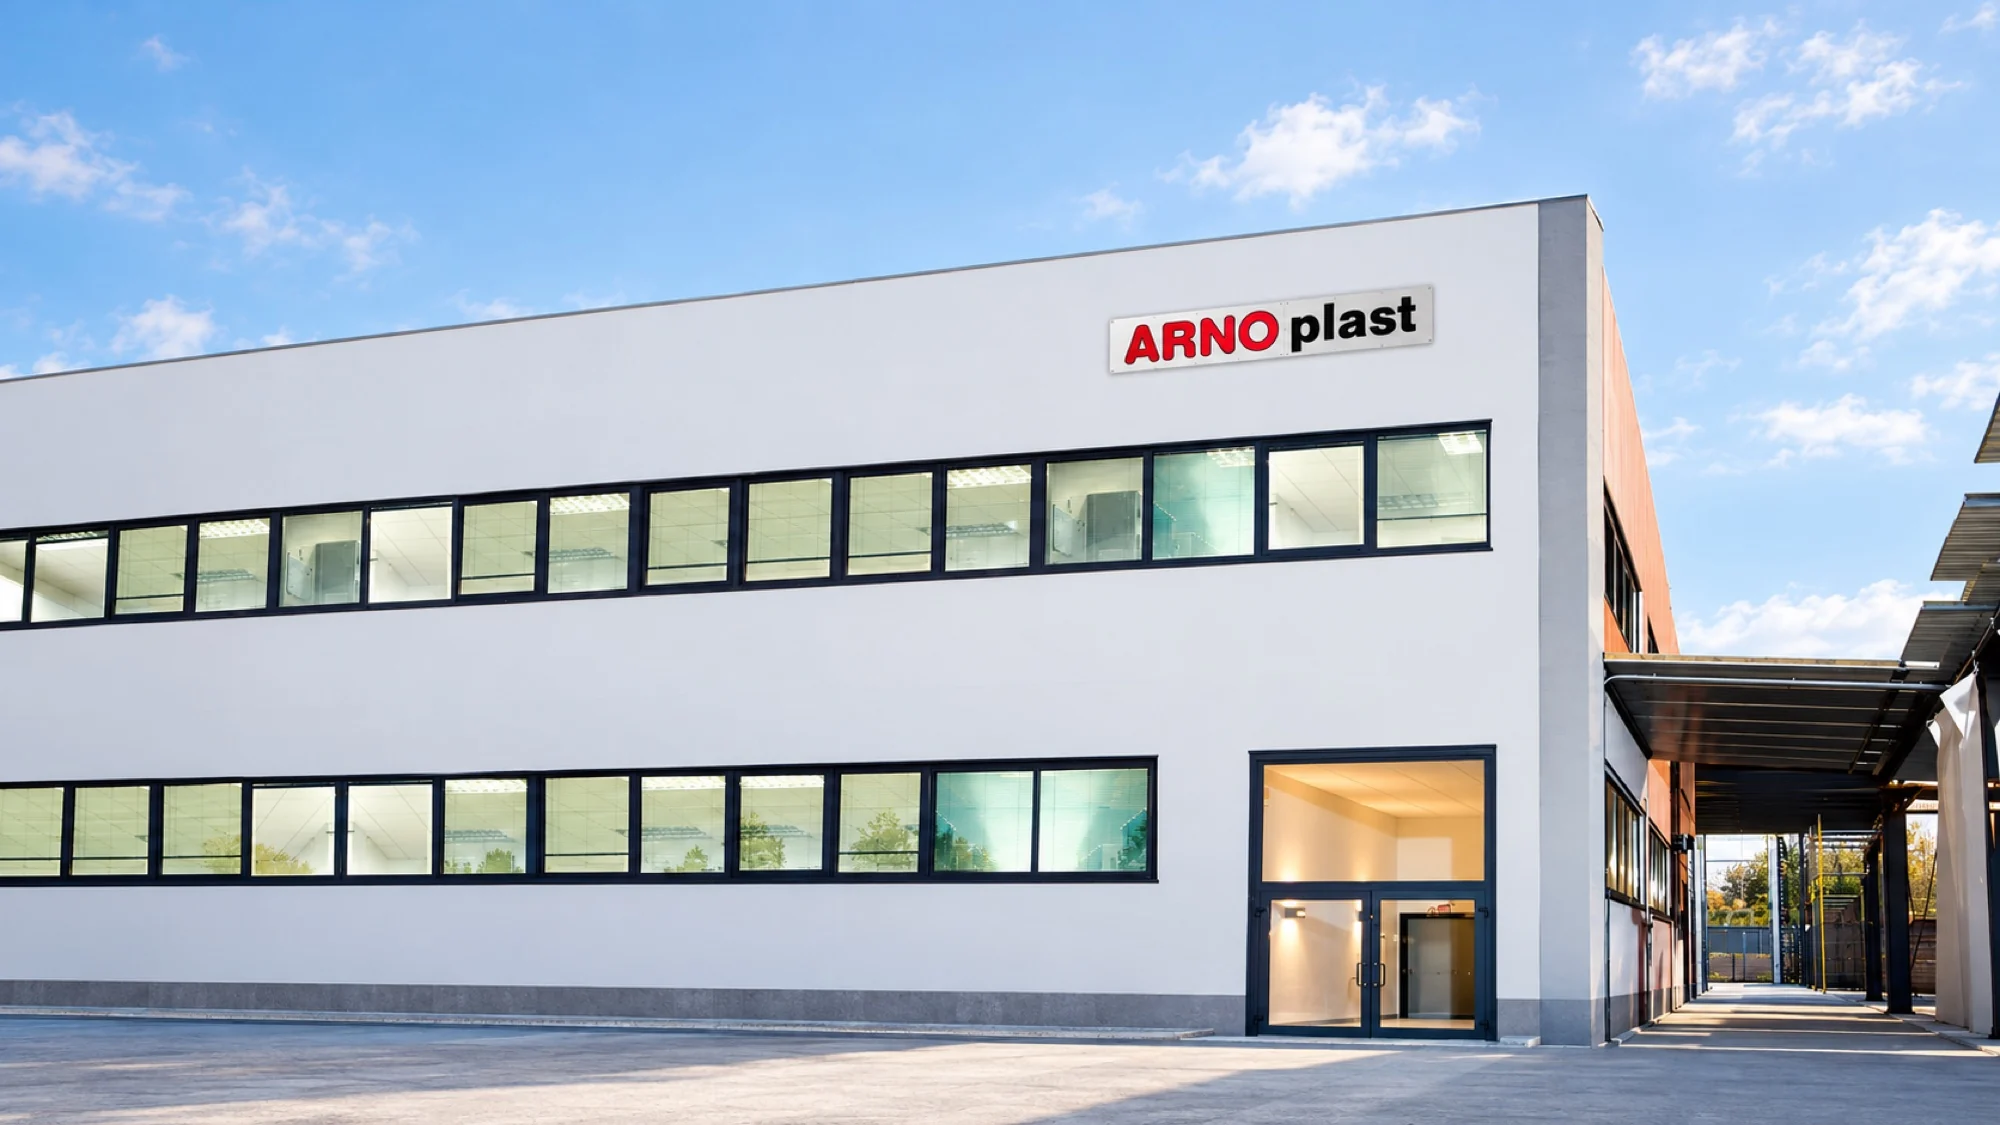
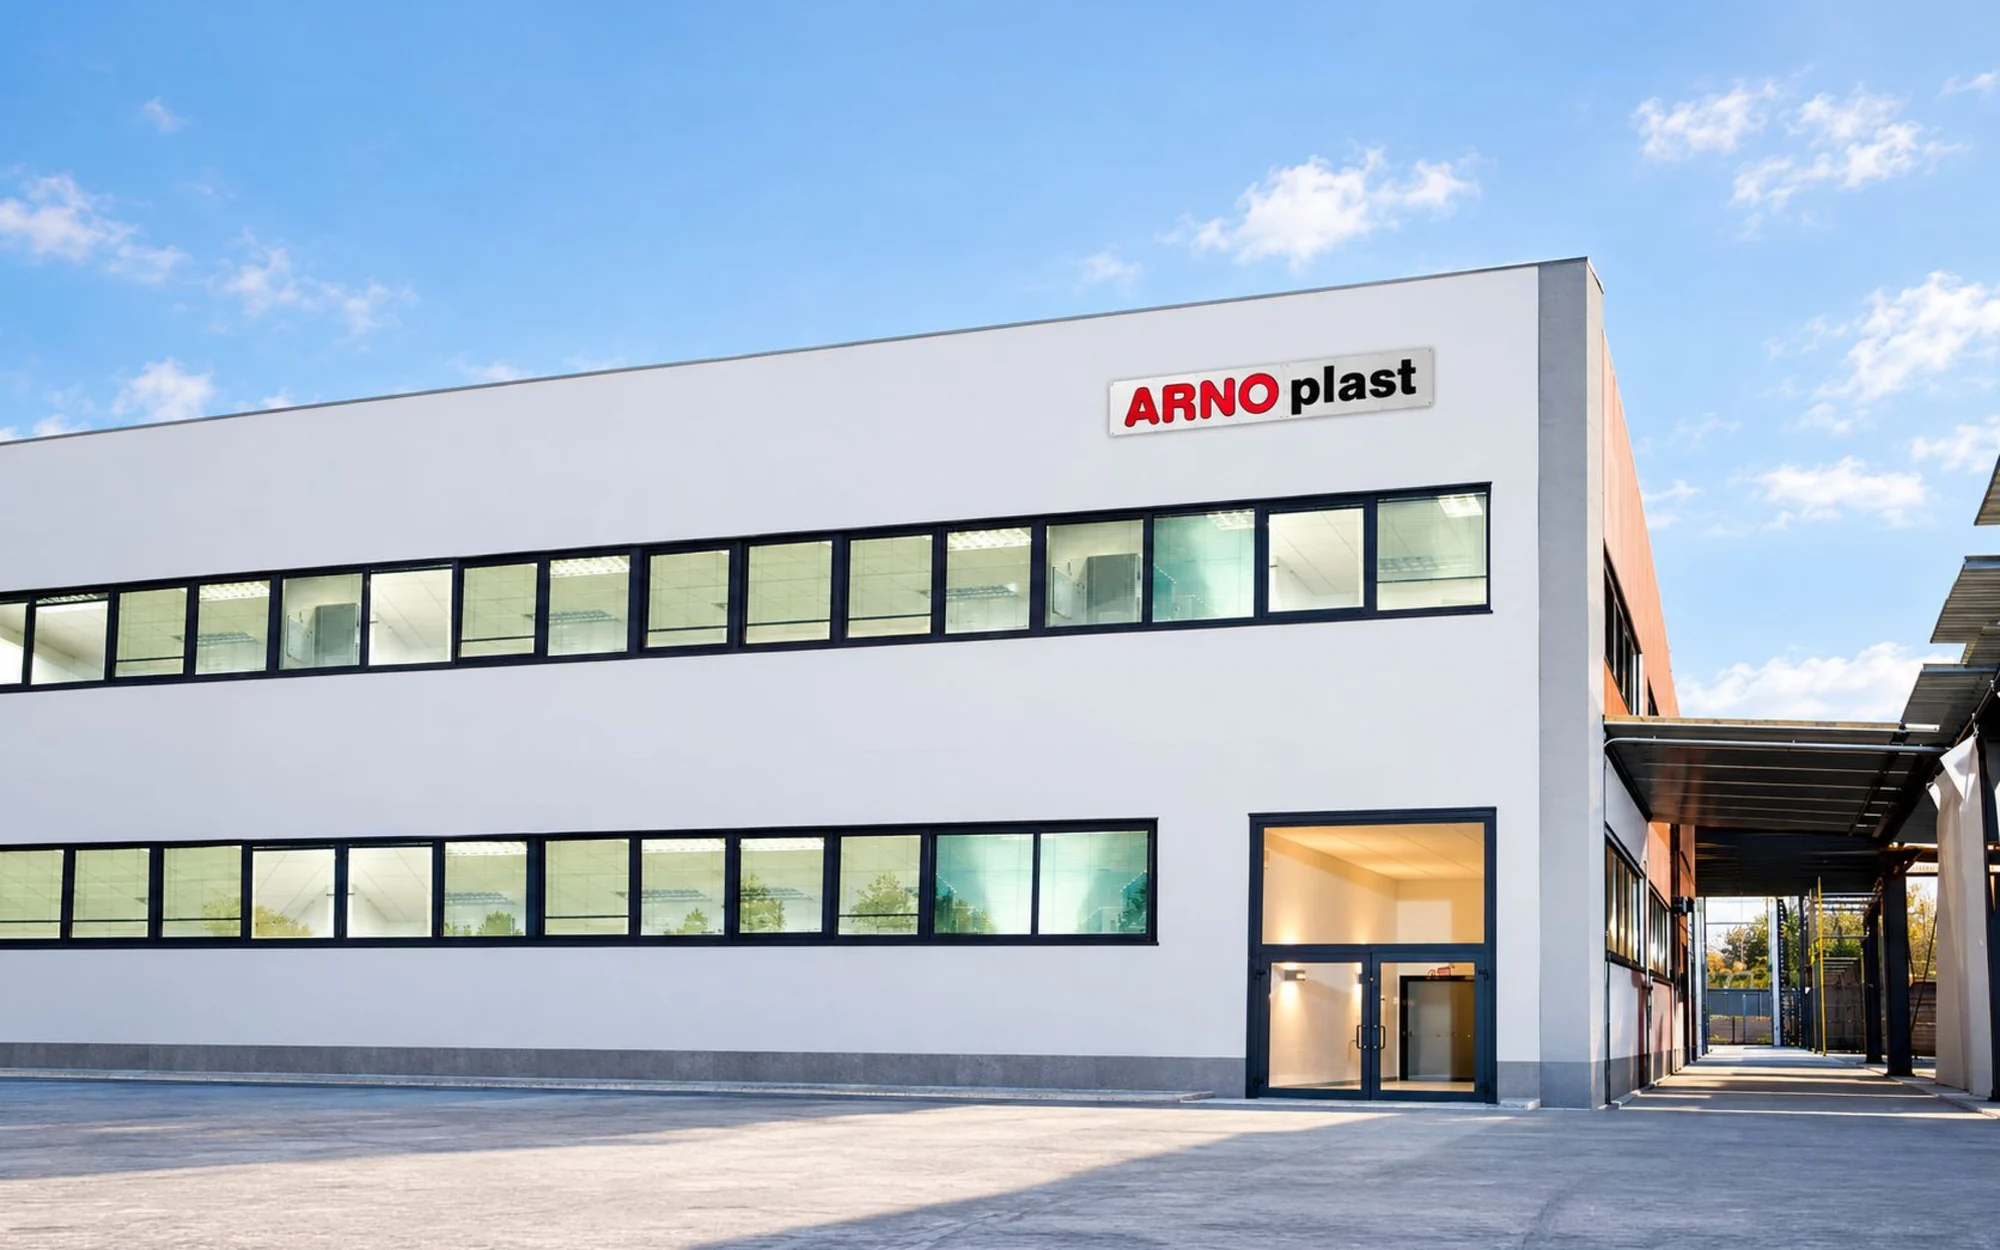
feat(azienda): foto della sede a 4000 px (giorno e notte), versioni fino a 3200 px
Originali del cliente in alta risoluzione (JPEG q93 in content/photos);
WebP a 800-3200 px e ritagli verticali per i telefoni fino a 1260 px.
Su schermi ad alta densita' il browser sceglie la versione da 3200 px.
File fino a 223 KB; limite dei file dell'hero alzato a 250 KB.

Claude-Session: https://claude.ai/code/session_01EA98WXiedYyXaTRHX4D2zH

diff --git a/tools/sede_images.py b/tools/sede_images.py
@@ -1,8 +1,8 @@
 """Foto della sede (giorno e notte) per l'hero di Azienda, dalle foto originali del cliente in content/photos.
 
 Uso: python tools/sede_images.py
-Scrive in site/static/img/home: sede-<giorno|notte>-<larghezza>.webp (800, 1280, 1600, 2000; mai oltre
-la risoluzione nativa) e sede-<giorno|notte>-alto-<larghezza>.webp (ritaglio verticale per i telefoni
+Scrive in site/static/img/home: sede-<giorno|notte>-<larghezza>.webp (800, 1280, 1600, 2000, 2560, 3200;
+mai oltre la risoluzione nativa) e sede-<giorno|notte>-alto-<larghezza>.webp (ritaglio verticale per i telefoni
 sulla zona dell'insegna e dell'ingresso). Richiede Pillow con WebP.
 """
 from pathlib import Path
@@ -11,16 +11,15 @@ from PIL import Image
 ROOT = Path(__file__).resolve().parent.parent
 SRC = ROOT / "content" / "photos"
 OUT = ROOT / "site" / "static" / "img" / "home"
-PORTRAIT_X = (900, 1800)  # su una foto larga 2000 px: insegna, finestre e porta
+PORTRAIT_X = (0.45, 0.90)  # parte di larghezza ritagliata per i telefoni: insegna, finestre e porta
 
-QUALITY = {800: 86, 2000: 86}  # le altre larghezze a 88: la facciata liscia e il cielo mostrano subito i blocchi
+QUALITY = {800: 86, 2000: 86, 2560: 84, 3200: 82}  # le altre a 88: la facciata liscia e il cielo mostrano subito i blocchi
 
 OUT.mkdir(parents=True, exist_ok=True)
 for name in ("giorno", "notte"):
     im = Image.open(SRC / f"sede-{name}.jpg").convert("RGB")
-    sx = im.width / 2000
-    crops = {f"sede-{name}": (im, (800, 1280, 1600, 2000)),
-             f"sede-{name}-alto": (im.crop((round(PORTRAIT_X[0] * sx), 0, round(PORTRAIT_X[1] * sx), im.height)), (420, 840))}
+    crops = {f"sede-{name}": (im, (800, 1280, 1600, 2000, 2560, 3200)),
+             f"sede-{name}-alto": (im.crop((round(PORTRAIT_X[0] * im.width), 0, round(PORTRAIT_X[1] * im.width), im.height)), (420, 840, 1260))}
     for stem, (img, widths) in crops.items():
         for w in widths:
             w = min(w, img.width)

diff --git a/tests/test_motion.py b/tests/test_motion.py
@@ -46,7 +46,7 @@ def test_hero_pages_have_full_screen_hero_with_one_priority_image(site, rel):
         assert re.search(r'\swidth="\d+"', tag) and re.search(r'\sheight="\d+"', tag), tag
         for part in re.search(r'srcset="([^"]+)"', tag).group(1).split(","):
             f = out / part.split()[0].lstrip("/")
-            assert f.is_file() and f.suffix == ".webp" and f.stat().st_size <= 150 * 1024, part
+            assert f.is_file() and f.suffix == ".webp" and f.stat().st_size <= 250 * 1024, part
     for other in re.findall(r"<img\b[^>]*>", h):
         if other != img and "arnoplast-logo" not in other:
             assert 'loading="lazy"' in other, other
@@ -150,7 +150,7 @@ def test_company_hero_has_night_variant_chosen_in_page(site):
     for srcset in night:
         for part in srcset.split(","):
             f = out / part.split()[0].lstrip("/")
-            assert f.is_file() and f.suffix == ".webp" and f.stat().st_size <= 150 * 1024, part
+            assert f.is_file() and f.suffix == ".webp" and f.stat().st_size <= 250 * 1024, part
     assert "getHours()" in h and "luce=(notte|giorno)" in h
     for rel in ("it", "it/agricoltura", "it/garden", "it/olive"):
         assert "data-night-srcset" not in html(out, rel), rel
